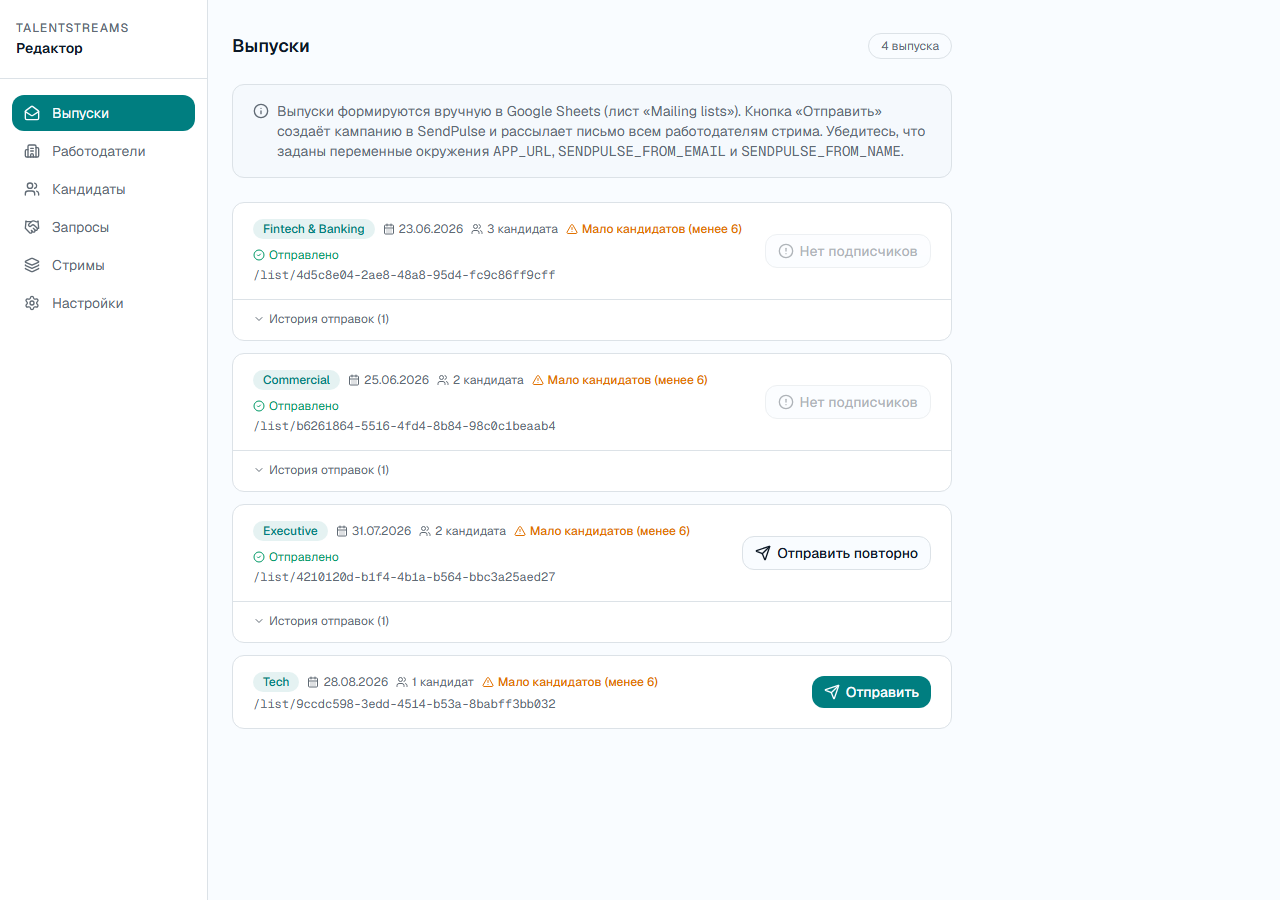
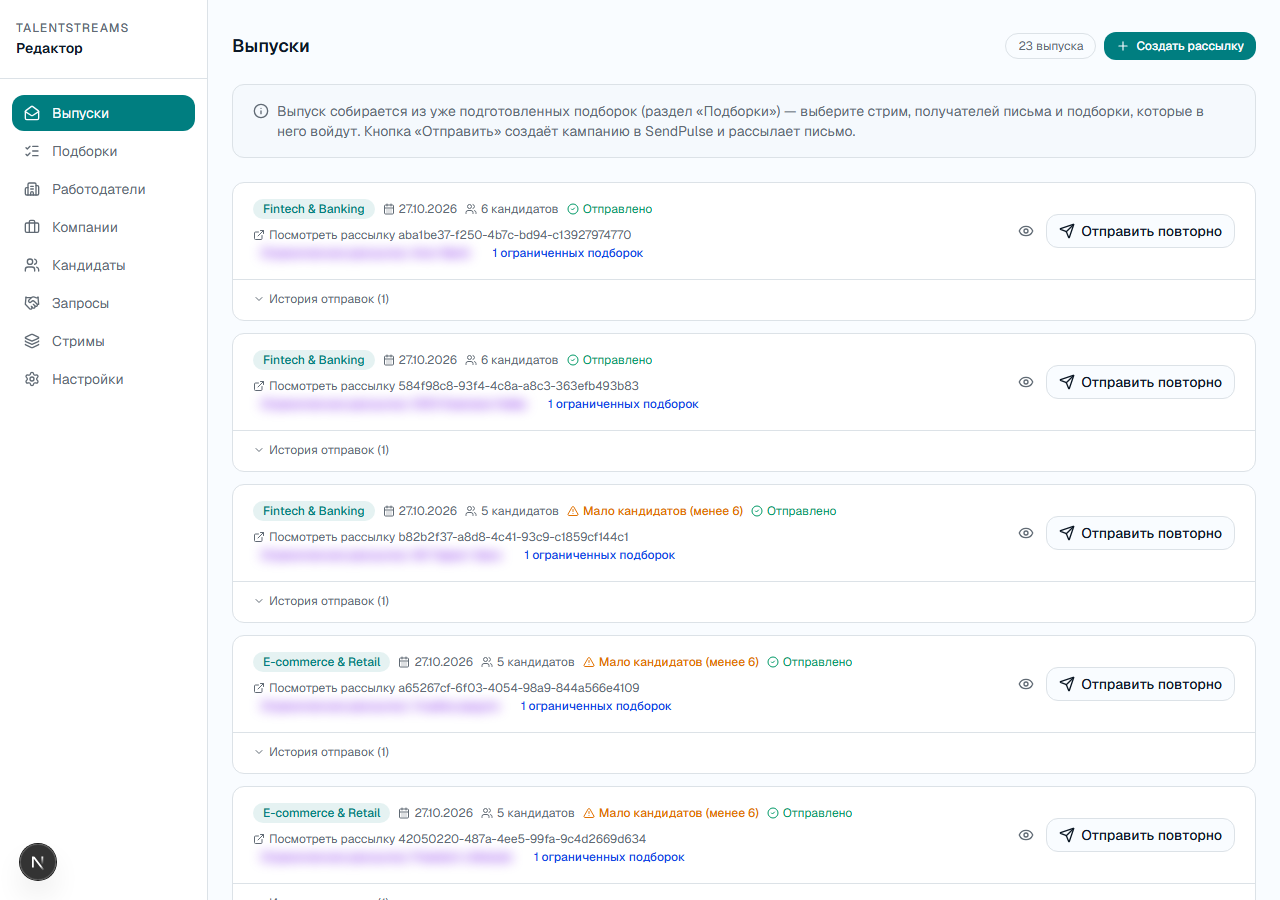
Актуализировать плейбук менеджера под TASK-44 (подборки отдельно от рассылки) (#120)
Плейбук описывал старую модель — один фиксированный список кандидатов на
выпуск, форма создания рассылки с чекбоксами кандидатов. После TASK-44 это
давно не так: контент (подборка) готовится заранее в отдельном разделе и
только выбирается при создании выпуска. Переписан раздел про рассылку,
добавлен раздел «Подборки», пересняты скриншоты (реальные имена/компании
на них заблюрены). Добавлено объяснение, почему подборку вообще отделили от
рассылки — SendPulse: узкие книги не успевали проиндексироваться к отправке
(ошибка 798, приходилось пересылать вручную), плюс лимит 4 кампании в час API
растягивал рассылку на отдельные персональные книги на целый день. Та же
причина добавлена в docs/backlog.adoc (TASK-44, «Почему»).

Заодно поправлена забытая после переименования «Личная» → «Ограниченная»
строка бейджа в /editor (app/editor/page.tsx) — всё ещё писала «N личных
подборок».

diff --git a/app/editor/page.tsx b/app/editor/page.tsx
@@ -172,7 +172,7 @@ export default async function ReleasesPage({
                         )}
                         {list.personalSelectionCount > 0 && (
                           <span className="inline-flex items-center gap-1 rounded-full bg-blue-50 px-2 py-0.5 text-xs font-medium text-blue-700 dark:bg-blue-900/20 dark:text-blue-400">
-                            {list.personalSelectionCount} личных подборок
+                            {list.personalSelectionCount} ограниченных подборок
                           </span>
                         )}
                       </div>

diff --git a/CLAUDE.md b/CLAUDE.md
@@ -109,7 +109,7 @@ components/
 
 docs/
   backlog.adoc                      # ГЛАВНЫЙ ДОКУМЕНТ: все задачи и статусы
-  manager-playbook.adoc             # Инструкция для нетехнического менеджера: кандидаты/работодатели/рассылка
+  manager-playbook.adoc             # Инструкция для нетехнического менеджера: кандидаты/работодатели/подборки/рассылка
   workspace.dsl                     # C4-архитектура (Structurizr)
   editor-stream-flow.puml           # Sequence-диаграмма жизненного цикла
 
